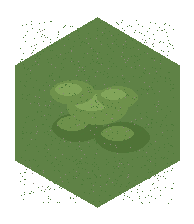
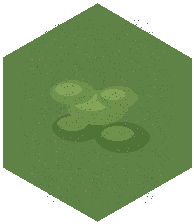
Fixed for tile generator

diff --git a/generate_tiles.php b/generate_tiles.php
@@ -41,13 +41,33 @@ function drawCircle(GdImage $img, int $cx, int $cy, int $r, int $color): void
 }
 
 /**
- * Add noise/texture to an area with scattered pixels
+ * Check if a point is inside a pointy-top hexagon centered at (cx, cy)
+ */
+function isInsideHex(int $px, int $py, int $cx, int $cy, int $size): bool
+{
+    $dx = abs($px - $cx);
+    $dy = abs($py - $cy);
+    // Pointy-top hex: width = sqrt(3)*size, height = 2*size
+    $hexW = sqrt(3) * $size / 2;
+    if ($dx > $hexW || $dy > $size) {
+        return false;
+    }
+    // Sloped edge check
+    return $size * $hexW - $size * $dx - $hexW / 2 * $dy >= 0;
+}
+
+/**
+ * Add noise/texture to an area with scattered pixels, constrained to hex
  */
 function addNoise(GdImage $img, int $x1, int $y1, int $x2, int $y2, int $color, float $density = 0.05): void
 {
+    $cx = (int)(imagesx($img) / 2);
+    $cy = (int)(imagesy($img) / 2);
+    $size = hexSize(imagesx($img), imagesy($img)) - 2;
+
     for ($y = $y1; $y < $y2; $y++) {
         for ($x = $x1; $x < $x2; $x++) {
-            if (mt_rand(0, 1000) / 1000.0 < $density) {
+            if (isInsideHex($x, $y, $cx, $cy, $size) && mt_rand(0, 1000) / 1000.0 < $density) {
                 imagesetpixel($img, $x, $y, $color);
             }
         }
@@ -124,8 +144,7 @@ function drawHill(GdImage $img, int $cx, int $cy, int $w, int $h, int $color, in
 {
     imagefilledellipse($img, $cx, $cy, $w, $h, $color);
     // Highlight on top
-    imagefilledellipse($img, $cx - (int)($w * 0.1), $cy - (int)($h * 0.15), (int)($w * 0.6), (int)($h * 0.5), $hig
-hlight);
+    imagefilledellipse($img, $cx - (int)($w * 0.1), $cy - (int)($h * 0.15), (int)($w * 0.6), (int)($h * 0.5), $highlight);
 }
 
 /**
@@ -133,16 +152,33 @@ hlight);
  */
 function drawWaves(GdImage $img, int $cx, int $cy, int $w, int $h, int $color, int $count = 3): void
 {
+    $imgCx = (int)(imagesx($img) / 2);
+    $imgCy = (int)(imagesy($img) / 2);
+    $size = hexSize(imagesx($img), imagesy($img)) - 2;
+
     for ($i = 0; $i < $count; $i++) {
         $waveY = $cy - (int)($h * 0.3) + $i * (int)($h * 0.25);
         $waveX = $cx - (int)($w * 0.3) + $i * 5;
 
         for ($px = -15; $px < 15; $px++) {
             $py = (int)(sin($px * 0.4 + $i) * 3);
-            imagesetpixel($img, $waveX + $px, $waveY + $py, $color);
-            imagesetpixel($img, $waveX + $px, $waveY + $py + 1, $color);
+            $drawX = $waveX + $px;
+            $drawY = $waveY + $py;
+            if (isInsideHex($drawX, $drawY, $imgCx, $imgCy, $size)) {
+                imagesetpixel($img, $drawX, $drawY, $color);
+                imagesetpixel($img, $drawX, $drawY + 1, $color);
+            }
         }
     }
+}
+
+function hexSize(int $w, int $h): int
+{
+    // Pointy-top hex: width = sqrt(3)*size, height = 2*size
+    // Fit to image with 2px border on each side
+    $fromWidth = (int)(($w - 4) / sqrt(3));
+    $fromHeight = (int)(($h - 4) / 2);
+    return min($fromWidth, $fromHeight);
 }
 
 // ========== TILE GENERATORS ==========
@@ -155,7 +191,7 @@ function generateDeepWater(int $w, int $h): GdImage
 
     $cx = (int)($w / 2);
     $cy = (int)($h / 2);
-    $size = (int)(min($w, $h) / 2) - 2;
+    $size = hexSize($w, $h);
 
     // Deep ocean blue base
     $baseColor = imagecolorallocate($img, 20, 50, 120);
@@ -168,7 +204,6 @@ function generateDeepWater(int $w, int $h): GdImage
     drawCircle($img, $cx + 20, $cy + 20, 25, $dark2);
     drawCircle($img, $cx + 10, $cy - 30, 20, $dark1);
 
-    // Re-clip to hex
     drawHexClip($img, $cx, $cy, $size);
 
     // Subtle wave highlights
@@ -179,6 +214,7 @@ function generateDeepWater(int $w, int $h): GdImage
     $sparkle = imagecolorallocate($img, 60, 90, 170);
     addNoise($img, 20, 20, $w - 20, $h - 20, $sparkle, 0.01);
 
+    drawHexClip($img, $cx, $cy, $size);
     return $img;
 }
 
@@ -190,7 +226,7 @@ function generateWater(int $w, int $h): GdImage
 
     $cx = (int)($w / 2);
     $cy = (int)($h / 2);
-    $size = (int)(min($w, $h) / 2) - 2;
+    $size = hexSize($w, $h);
 
     // Medium ocean blue
     $baseColor = imagecolorallocate($img, 35, 80, 165);
@@ -212,6 +248,7 @@ function generateWater(int $w, int $h): GdImage
     $sparkle = imagecolorallocate($img, 90, 140, 220);
     addNoise($img, 20, 20, $w - 20, $h - 20, $sparkle, 0.02);
 
+    drawHexClip($img, $cx, $cy, $size);
     return $img;
 }
 
@@ -223,7 +260,7 @@ function generateShallowWater(int $w, int $h): GdImage
 
     $cx = (int)($w / 2);
     $cy = (int)($h / 2);
-    $size = (int)(min($w, $h) / 2) - 2;
+    $size = hexSize($w, $h);
 
     // Light blue-teal
     $baseColor = imagecolorallocate($img, 70, 150, 195);
@@ -245,6 +282,7 @@ function generateShallowWater(int $w, int $h): GdImage
     $sparkle = imagecolorallocate($img, 140, 210, 240);
     addNoise($img, 20, 20, $w - 20, $h - 20, $sparkle, 0.03);
 
+    drawHexClip($img, $cx, $cy, $size);
     return $img;
 }
 
@@ -256,7 +294,7 @@ function generateSand(int $w, int $h): GdImage
 
     $cx = (int)($w / 2);
     $cy = (int)($h / 2);
-    $size = (int)(min($w, $h) / 2) - 2;
+    $size = hexSize($w, $h);
 
     // Sandy yellow base
     $baseColor = imagecolorallocate($img, 210, 190, 140);
@@ -289,6 +327,7 @@ function generateSand(int $w, int $h): GdImage
         }
     }
 
+    drawHexClip($img, $cx, $cy, $size);
     return $img;
 }
 
@@ -300,7 +339,7 @@ function generateGrassland(int $w, int $h): GdImage
 
     $cx = (int)($w / 2);
     $cy = (int)($h / 2);
-    $size = (int)(min($w, $h) / 2) - 2;
+    $size = hexSize($w, $h);
 
     // Green base
     $baseColor = imagecolorallocate($img, 75, 140, 60);
@@ -330,6 +369,7 @@ function generateGrassland(int $w, int $h): GdImage
     addNoise($img, 30, 30, $w - 30, $h - 30, $flower1, 0.005);
     addNoise($img, 30, 30, $w - 30, $h - 30, $flower2, 0.003);
 
+    drawHexClip($img, $cx, $cy, $size);
     return $img;
 }
 
@@ -341,7 +381,7 @@ function generateForest(int $w, int $h): GdImage
 
     $cx = (int)($w / 2);
     $cy = (int)($h / 2);
-    $size = (int)(min($w, $h) / 2) - 2;
+    $size = hexSize($w, $h);
 
     // Dark green base
     $baseColor = imagecolorallocate($img, 35, 85, 35);
@@ -380,6 +420,7 @@ function generateForest(int $w, int $h): GdImage
     $under = imagecolorallocate($img, 20, 70, 20);
     addNoise($img, 20, 20, $w - 20, $h - 20, $under, 0.03);
 
+    drawHexClip($img, $cx, $cy, $size);
     return $img;
 }
 
@@ -391,7 +432,7 @@ function generateHills(int $w, int $h): GdImage
 
     $cx = (int)($w / 2);
     $cy = (int)($h / 2);
-    $size = (int)(min($w, $h) / 2) - 2;
+    $size = hexSize($w, $h);
 
     // Green-brown base
     $baseColor = imagecolorallocate($img, 95, 130, 70);
@@ -421,6 +462,7 @@ function generateHills(int $w, int $h): GdImage
     $rock = imagecolorallocate($img, 140, 135, 120);
     addNoise($img, 30, 30, $w - 30, $h - 30, $rock, 0.008);
 
+    drawHexClip($img, $cx, $cy, $size);
     return $img;
 }
 
@@ -432,7 +474,7 @@ function generateMountains(int $w, int $h): GdImage
 
     $cx = (int)($w / 2);
     $cy = (int)($h / 2);
-    $size = (int)(min($w, $h) / 2) - 2;
+    $size = hexSize($w, $h);
 
     // Rocky gray-brown base
     $baseColor = imagecolorallocate($img, 100, 95, 85);
@@ -444,17 +486,17 @@ function generateMountains(int $w, int $h): GdImage
     $rock1 = imagecolorallocate($img, 120, 115, 100);
     $rock2 = imagecolorallocate($img, 90, 85, 75);
     $rock3 = imagecolorallocate($img, 110, 105, 90);
-    $snow = imagecolorallocate($img, 230, 235, 240);
-    $snowShadow = imagecolorallocate($img, 200, 210, 220);
+    $peak = imagecolorallocate($img, 160, 158, 152);
+    $peakShadow = imagecolorallocate($img, 140, 138, 130);
 
     // Background mountain
-    drawMountain($img, $cx + 30, $cy + 20, 50, 50, $rock2, $snowShadow);
-    drawMountain($img, $cx - 25, $cy + 15, 45, 45, $rock2, $snowShadow);
+    drawMountain($img, $cx + 30, $cy + 20, 50, 50, $rock2, $peakShadow);
+    drawMountain($img, $cx - 25, $cy + 15, 45, 45, $rock2, $peakShadow);
 
     // Main peaks
-    drawMountain($img, $cx, $cy - 5, 65, 70, $rock1, $snow);
-    drawMountain($img, $cx - 30, $cy + 5, 50, 55, $rock3, $snow);
-    drawMountain($img, $cx + 25, $cy, 45, 50, $rock1, $snow);
+    drawMountain($img, $cx, $cy - 5, 65, 70, $rock1, $peak);
+    drawMountain($img, $cx - 30, $cy + 5, 50, 55, $rock3, $peak);
+    drawMountain($img, $cx + 25, $cy, 45, 50, $rock1, $peak);
 
     // Rock texture
     $rockTex = imagecolorallocate($img, 80, 75, 65);
@@ -464,6 +506,7 @@ function generateMountains(int $w, int $h): GdImage
     $shadow = imagecolorallocate($img, 70, 65, 55);
     addNoise($img, 20, 20, $w - 20, $h - 20, $shadow, 0.02);
 
+    drawHexClip($img, $cx, $cy, $size);
     return $img;
 }
 
@@ -475,8 +518,9 @@ function drawHexClip(GdImage $img, int $cx, int $cy, int $size): void
     $w = imagesx($img);
     $h = imagesy($img);
 
-    // Create mask
+    // Create mask - use a 1px smaller hex to ensure clean edges with no stray pixels
     $mask = imagecreatetruecolor($w, $h);
+    imageantialias($mask, false);
     $black = imagecolorallocate($mask, 0, 0, 0);
     $white = imagecolorallocate($mask, 255, 255, 255);
     imagefill($mask, 0, 0, $black);
@@ -487,7 +531,8 @@ function drawHexClip(GdImage $img, int $cx, int $cy, int $size): void
     for ($y = 0; $y < $h; $y++) {
         for ($x = 0; $x < $w; $x++) {
             $maskPixel = imagecolorat($mask, $x, $y);
-            if ($maskPixel === $black) {
+            $r = ($maskPixel >> 16) & 0xFF;
+            if ($r < 128) {
                 imagesetpixel($img, $x, $y, $transparent);
             }
         }
